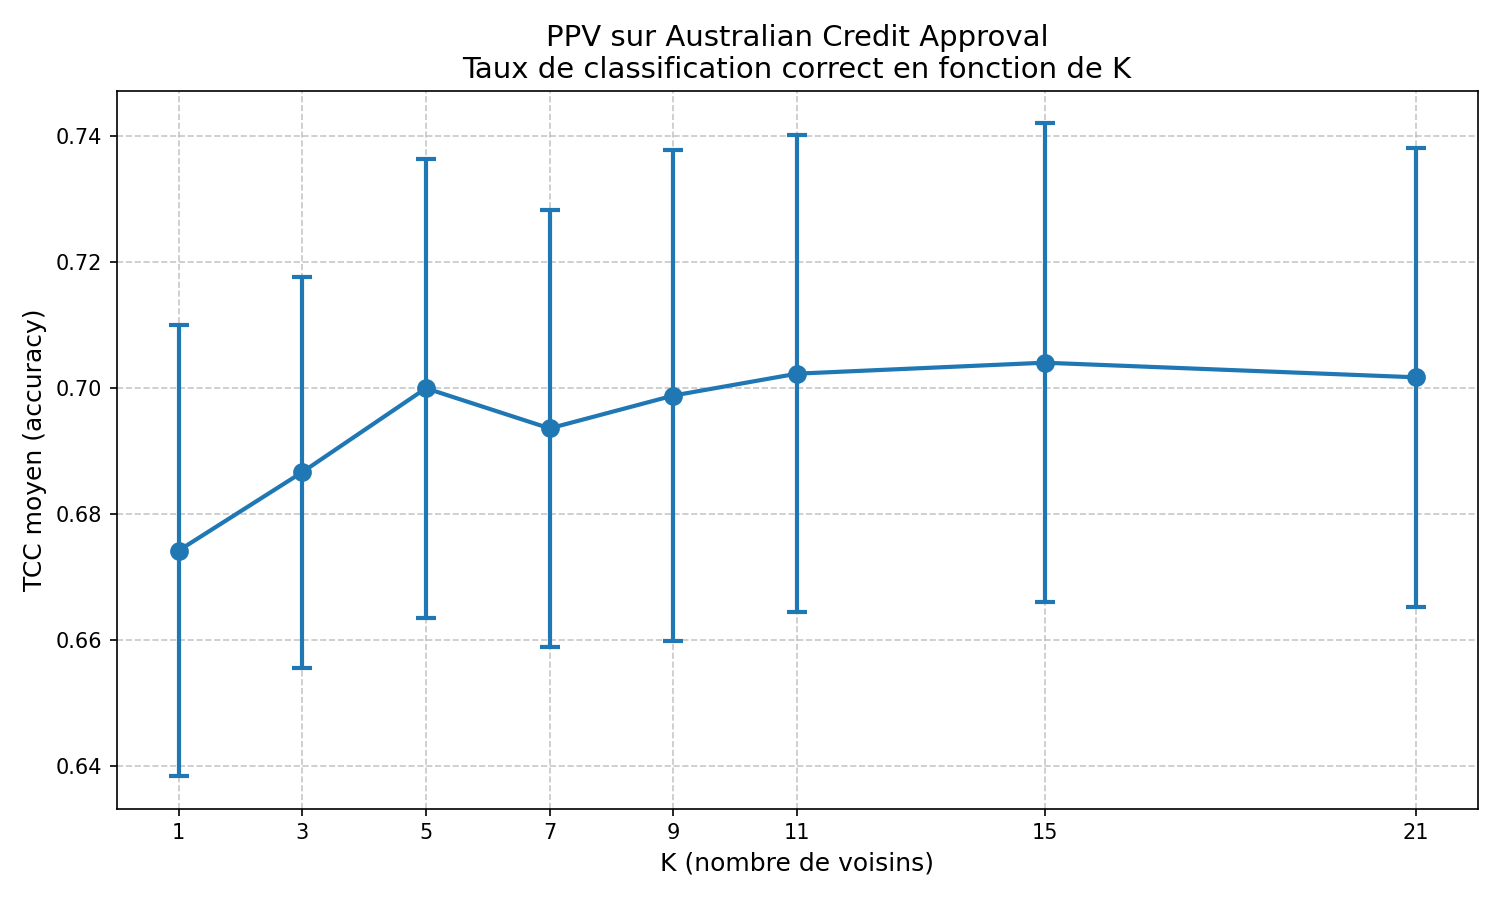
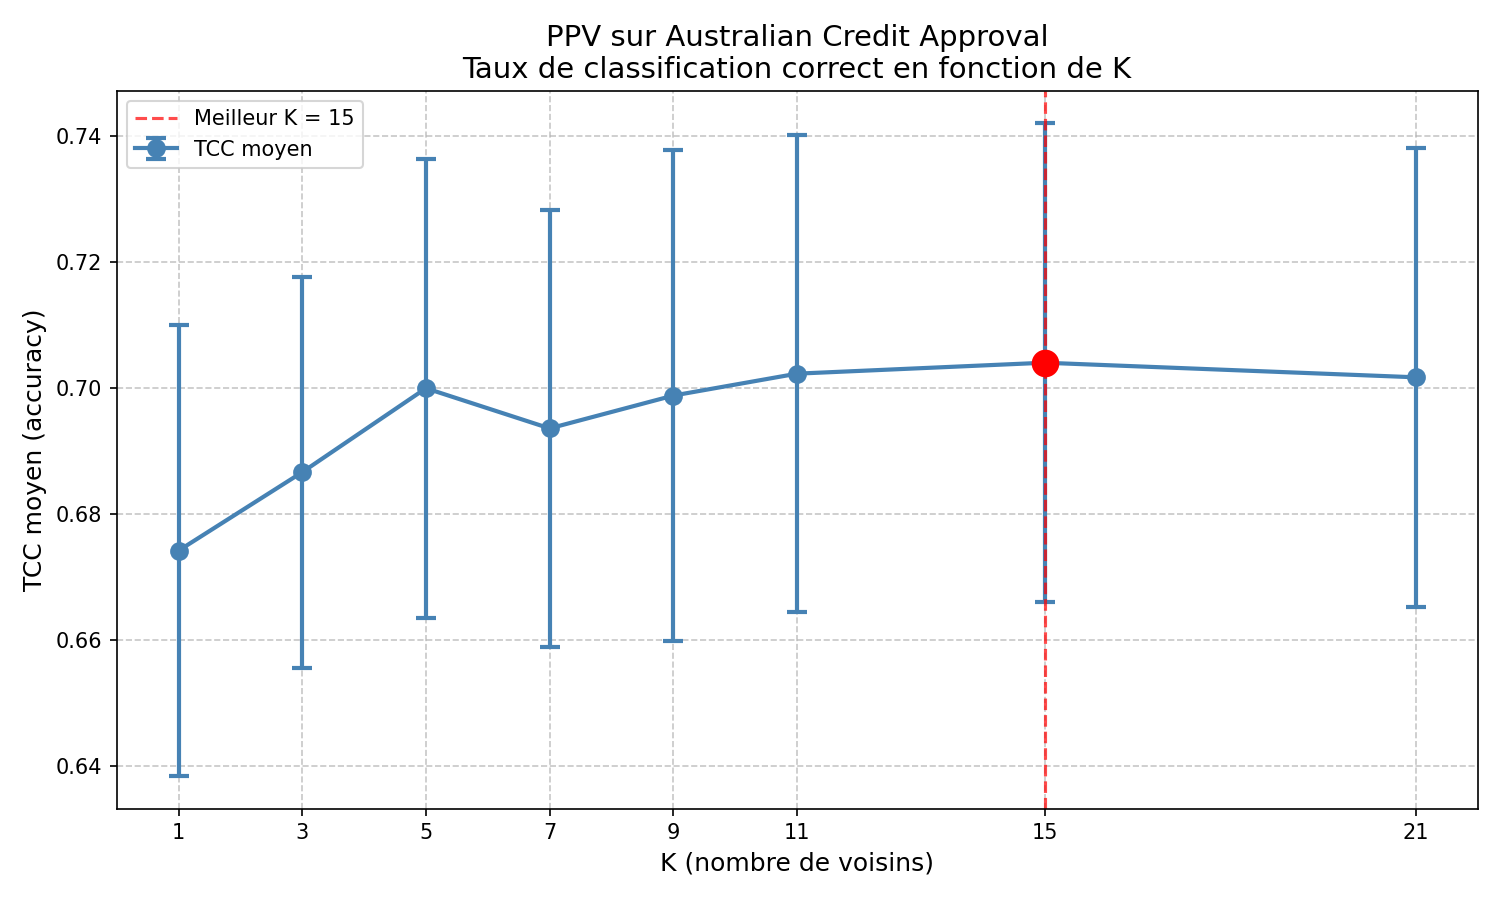
ajout des barres d'ecart type et du meilleur K aux résultats

diff --git a/modele_ppv.py b/modele_ppv.py
@@ -114,23 +114,23 @@ for k in valeurs_k:
 # -----------------------------------------------------------------------------
 # ÉTAPE 2e : AFFICHAGE DU TABLEAU DE RÉSULTATS
 # -----------------------------------------------------------------------------
+# Trouver le meilleur K (celui avec le TCC moyen le plus élevé)
+meilleur_index_aus = np.argmax(resultats_australian_moyennes)
+meilleur_k_aus = valeurs_k[meilleur_index_aus]
+meilleur_tcc_aus = resultats_australian_moyennes[meilleur_index_aus]
+
 print("RÉSULTATS - Australian Credit Approval")
-print("-" * 45)
-print(f"{'K (voisins)':<15} {'TCC moyen':<15} {'Écart-type':<15}")
-print("-" * 45)
+print("-" * 40)
+print(f"{'K':<8} {'TCC moyen':<25}")
+print("-" * 40)
 
 for i, k in enumerate(valeurs_k):
-    tcc = resultats_australian_moyennes[i]
-    ecart = resultats_australian_ecarts[i]
-    print(f"{k:<15} {tcc:.4f}          {ecart:.4f}")
+    tcc = resultats_australian_moyennes[i] * 100       # Conversion en %
+    ecart = resultats_australian_ecarts[i] * 100       # Conversion en %
+    print(f"{k:<8} {tcc:.2f}% ± {ecart:.2f}%")
 
-print("-" * 45)
-
-# Trouver le meilleur K
-meilleur_index = np.argmax(resultats_australian_moyennes)
-meilleur_k = valeurs_k[meilleur_index]
-meilleur_tcc = resultats_australian_moyennes[meilleur_index]
-print(f"\nMeilleur K : {meilleur_k} avec un TCC de {meilleur_tcc:.4f}")
+print("-" * 40)
+print(f"Meilleur K : {meilleur_k_aus} (TCC = {meilleur_tcc_aus * 100:.2f}%)")
 
 # -----------------------------------------------------------------------------
 # ÉTAPE 2f : AFFICHAGE DU GRAPHIQUE
@@ -142,13 +142,22 @@ plt.figure(figsize=(10, 6))
 # Tracé de la courbe avec barres d'erreur (écart-type)
 plt.errorbar(valeurs_k, resultats_australian_moyennes,
              yerr=resultats_australian_ecarts,
-             marker='o', capsize=5, capthick=2, linewidth=2, markersize=8)
+             marker='o', capsize=5, capthick=2, linewidth=2, markersize=8,
+             label='TCC moyen', color='steelblue')
+
+# Ligne verticale rouge pour indiquer le meilleur K
+plt.axvline(x=meilleur_k_aus, color='red', linestyle='--', alpha=0.7,
+            label=f'Meilleur K = {meilleur_k_aus}')
+
+# Point rouge sur le meilleur K pour le mettre en évidence
+plt.scatter([meilleur_k_aus], [meilleur_tcc_aus], color='red', s=150, zorder=5)
 
 plt.xlabel('K (nombre de voisins)', fontsize=12)
 plt.ylabel('TCC moyen (accuracy)', fontsize=12)
 plt.title('PPV sur Australian Credit Approval\nTaux de classification correct en fonction de K', fontsize=14)
 plt.xticks(valeurs_k)
 plt.grid(True, linestyle='--', alpha=0.7)
+plt.legend()
 plt.tight_layout()
 
 # Sauvegarde du graphique
@@ -236,23 +245,23 @@ for k in valeurs_k:
 # -----------------------------------------------------------------------------
 # ÉTAPE 3e : AFFICHAGE DU TABLEAU DE RÉSULTATS
 # -----------------------------------------------------------------------------
+# Trouver le meilleur K
+meilleur_index_wine = np.argmax(resultats_wine_moyennes)
+meilleur_k_wine = valeurs_k[meilleur_index_wine]
+meilleur_tcc_wine = resultats_wine_moyennes[meilleur_index_wine]
+
 print("RÉSULTATS - Wine Quality Red")
-print("-" * 45)
-print(f"{'K (voisins)':<15} {'TCC moyen':<15} {'Écart-type':<15}")
-print("-" * 45)
+print("-" * 40)
+print(f"{'K':<8} {'TCC moyen':<25}")
+print("-" * 40)
 
 for i, k in enumerate(valeurs_k):
-    tcc = resultats_wine_moyennes[i]
-    ecart = resultats_wine_ecarts[i]
-    print(f"{k:<15} {tcc:.4f}          {ecart:.4f}")
+    tcc = resultats_wine_moyennes[i] * 100             # Conversion en %
+    ecart = resultats_wine_ecarts[i] * 100             # Conversion en %
+    print(f"{k:<8} {tcc:.2f}% ± {ecart:.2f}%")
 
-print("-" * 45)
-
-# Trouver le meilleur K
-meilleur_index = np.argmax(resultats_wine_moyennes)
-meilleur_k = valeurs_k[meilleur_index]
-meilleur_tcc = resultats_wine_moyennes[meilleur_index]
-print(f"\nMeilleur K : {meilleur_k} avec un TCC de {meilleur_tcc:.4f}")
+print("-" * 40)
+print(f"Meilleur K : {meilleur_k_wine} (TCC = {meilleur_tcc_wine * 100:.2f}%)")
 
 # -----------------------------------------------------------------------------
 # ÉTAPE 3f : AFFICHAGE DU GRAPHIQUE
@@ -265,13 +274,21 @@ plt.figure(figsize=(10, 6))
 plt.errorbar(valeurs_k, resultats_wine_moyennes,
              yerr=resultats_wine_ecarts,
              marker='o', capsize=5, capthick=2, linewidth=2, markersize=8,
-             color='green')
+             label='TCC moyen', color='green')
+
+# Ligne verticale rouge pour indiquer le meilleur K
+plt.axvline(x=meilleur_k_wine, color='red', linestyle='--', alpha=0.7,
+            label=f'Meilleur K = {meilleur_k_wine}')
+
+# Point rouge sur le meilleur K pour le mettre en évidence
+plt.scatter([meilleur_k_wine], [meilleur_tcc_wine], color='red', s=150, zorder=5)
 
 plt.xlabel('K (nombre de voisins)', fontsize=12)
 plt.ylabel('TCC moyen (accuracy)', fontsize=12)
 plt.title('PPV sur Wine Quality Red\nTaux de classification correct en fonction de K', fontsize=14)
 plt.xticks(valeurs_k)
 plt.grid(True, linestyle='--', alpha=0.7)
+plt.legend()
 plt.tight_layout()
 
 # Sauvegarde du graphique
@@ -289,4 +306,3 @@ print("=" * 70)
 print("\nRécapitulatif des fichiers générés :")
 print("  - resultats/ppv_australian.png")
 print("  - resultats/ppv_wine.png")
-print("\nCes graphiques peuvent être utilisés dans le rapport.")
